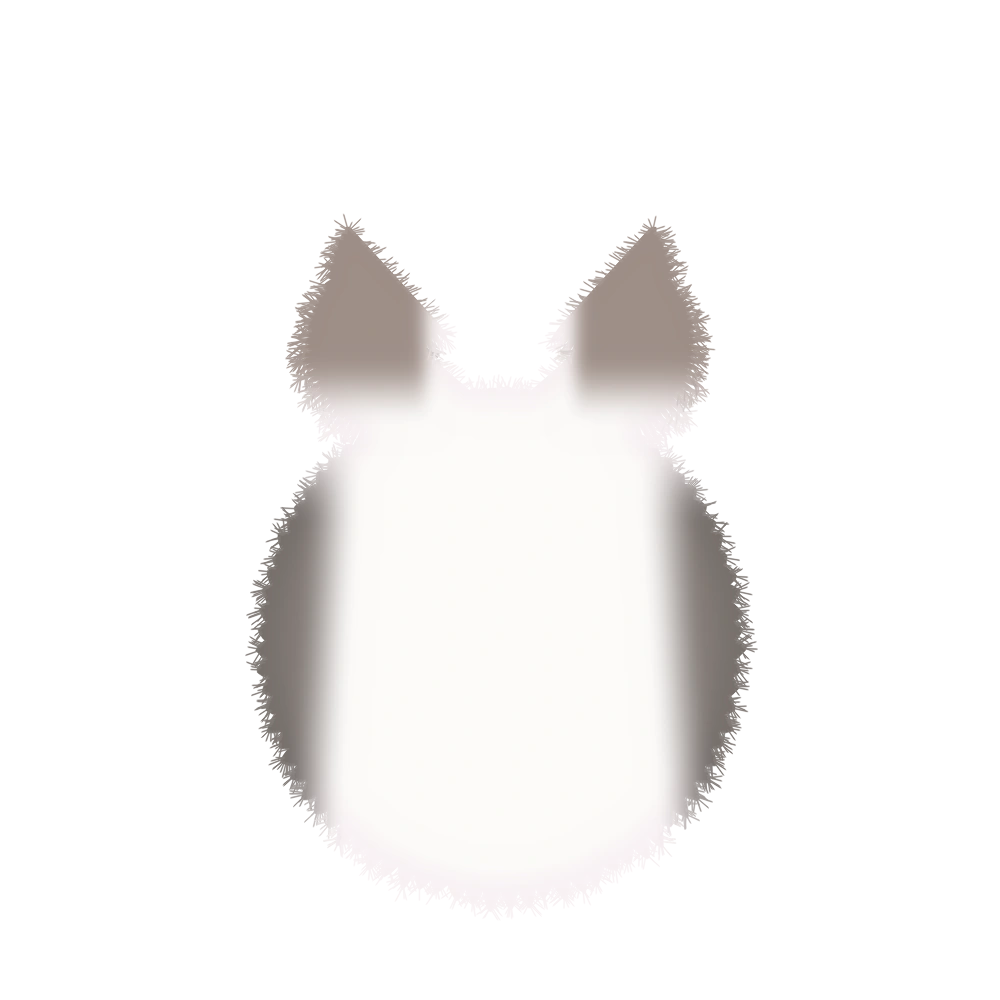
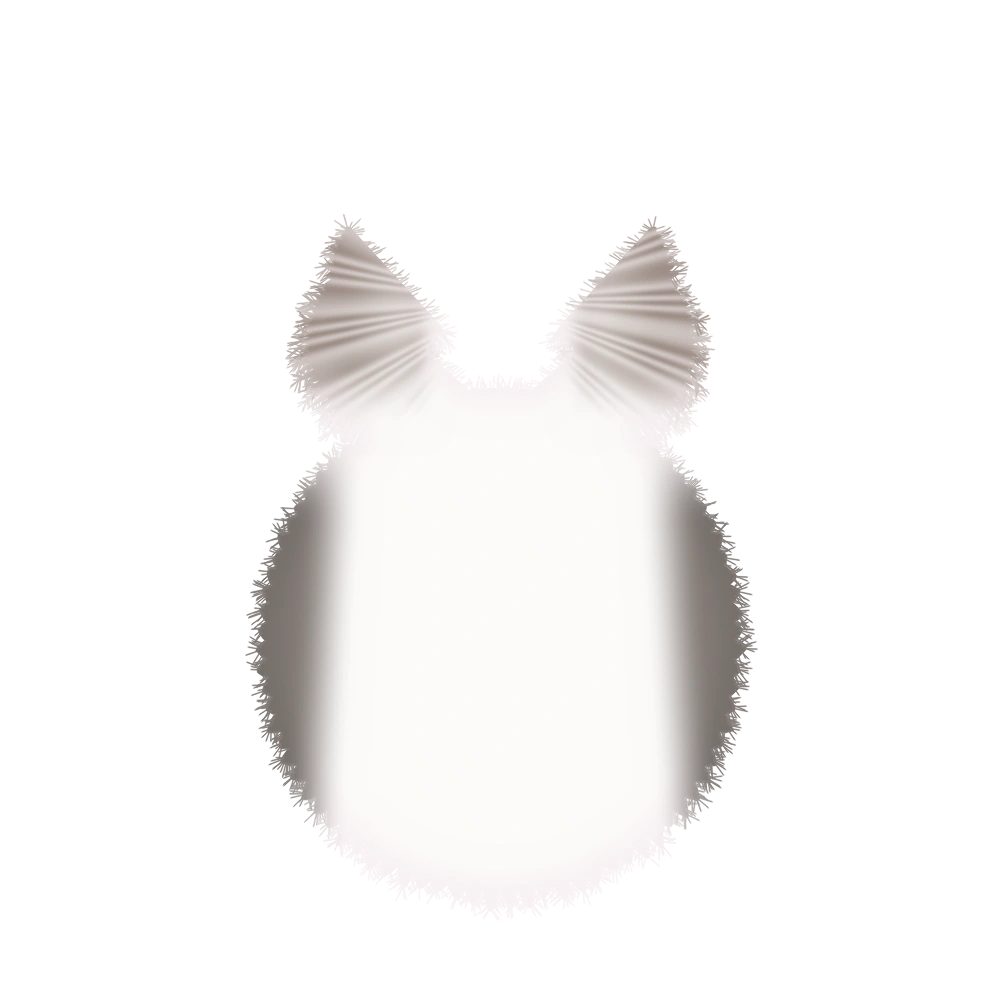
アナちゃん：顔の色のさかいを グラデーションに、白い筋を 目頭の上のふちに合わせる
- 灰色と白の さかいを 毛の流れにそって ぼかす（くっきりした色のかたまりに しない）
- ひたいの白い筋（八の字）が 目頭の 上のふちで 目に まじわるように 位置を直す
- 灰色は 下・外へ いくほど うすく
- ほおの毛も 白と灰色の 毛すじが まじる

Claude-Session: https://claude.ai/code/session_01W4x6f7KtFbhsBZfqVxHVQA

Changed region(s): [[0.558, 0.217, 0.713, 0.403], [0.279, 0.217, 0.434, 0.403]]

diff --git a/william/ana/make_ana.py b/william/ana/make_ana.py
@@ -18,10 +18,14 @@ def lum(c): return c[..., 0] * 0.11 + c[..., 1] * 0.59 + c[..., 2] * 0.3
 
 # ---- アナちゃんの模様（モデル上の位置で決める。顔の土台にも まぶたにも 同じ式を使う＝色が つながる） ----
 def face_mark(mx, my):
+    """顔の灰色の こさ（0〜1）。色のさかいは くっきりさせず、毛の流れにそって ぼかす"""
     du = np.abs(mx - 1000)
-    blaze = 26 + 150 * ss(520, 760, my) ** 1.3                         # ひたいの白い筋：上は細く、目の高さで 目の内がわまで
-    yb = 742 + np.clip(du - 150, 0, 300) * 0.55                        # 灰色の下のふち：目の上まで。外がわほど 下まで
-    return ss(blaze - 14, blaze + 22, du) * ss(yb + 34, yb - 26, my)
+    th = np.arctan2(my - 900, mx - 1000); streak = 0.5 + 0.5 * np.sin(th * 44 + np.sin(th * 13) * 2.2)      # 毛の流れ（鼻から 放射状）：さかいを 毛すじで ゆらす
+    blaze = 30 + 48 * ss(500, 720, my) + streak * 14                   # ひたいの白い筋（八の字）：上は細く、目頭の 上のふち で 目に まじわる
+    yb = 716 + np.clip(du - 150, 0, 300) * 0.7 + streak * 22           # 灰色の下のふち：目頭の上 → 上まぶたにそって → 目じりの外から ほおへ下がる
+    edge = ss(blaze - 34, blaze + 46, du) * ss(yb + 62, yb - 40, my)
+    depth = 0.74 + 0.26 * ss(yb + 20, yb - 190, my)                    # 下・外へ いくほど うすい灰色に（グラデーション）
+    return edge * depth * (0.9 + 0.1 * streak)
 def body_mark(mx, my):
     return ss(300, 420, np.abs(mx - 1000) + (1700 - my) * 0.06) * ss(1150, 1350, my)   # せなか：体のわきが灰色
 
@@ -141,6 +145,8 @@ gb = ss(300, 420, np.abs(MX - 1000) + (1700 - MY) * 0.06) * ss(1150, 1350, MY)
 back = soft_paint(m, gb, edge_shade(m, 30) * 0.4)
 GREIGE = np.array([126, 134, 150], np.float32)                                          # ほおの毛の色：うすい あたたかい灰色。毛先（下）だけ 白っぽく（写真）
 ck = (cv2.GaussianBlur((ss(1150, 1010, MY) * (MY < 1160) * (np.abs(MX - 1000) > 150)).astype(np.float32), (0, 0), 8))[..., None] * 0.92
+_th = np.arctan2(MY - 900, MX - 1000); _st = (0.5 + 0.5 * np.sin(_th * 60 + np.sin(_th * 17) * 2.5))[..., None]    # ほおの毛も 毛すじで 白と灰色が まじる（べた塗りに しない）
+ck = ck * (0.5 + 0.5 * _st) * (0.55 + 0.45 * ss(180, 330, np.abs(MX - 1000)))[..., None]
 back[..., :3] = (back[..., :3] * (1 - ck) + GREIGE * ck).clip(0, 255).astype(np.uint8)
 back = fine_hairs(back, 0.55, (5, 14))
 save(back, 'ana_back.webp')
